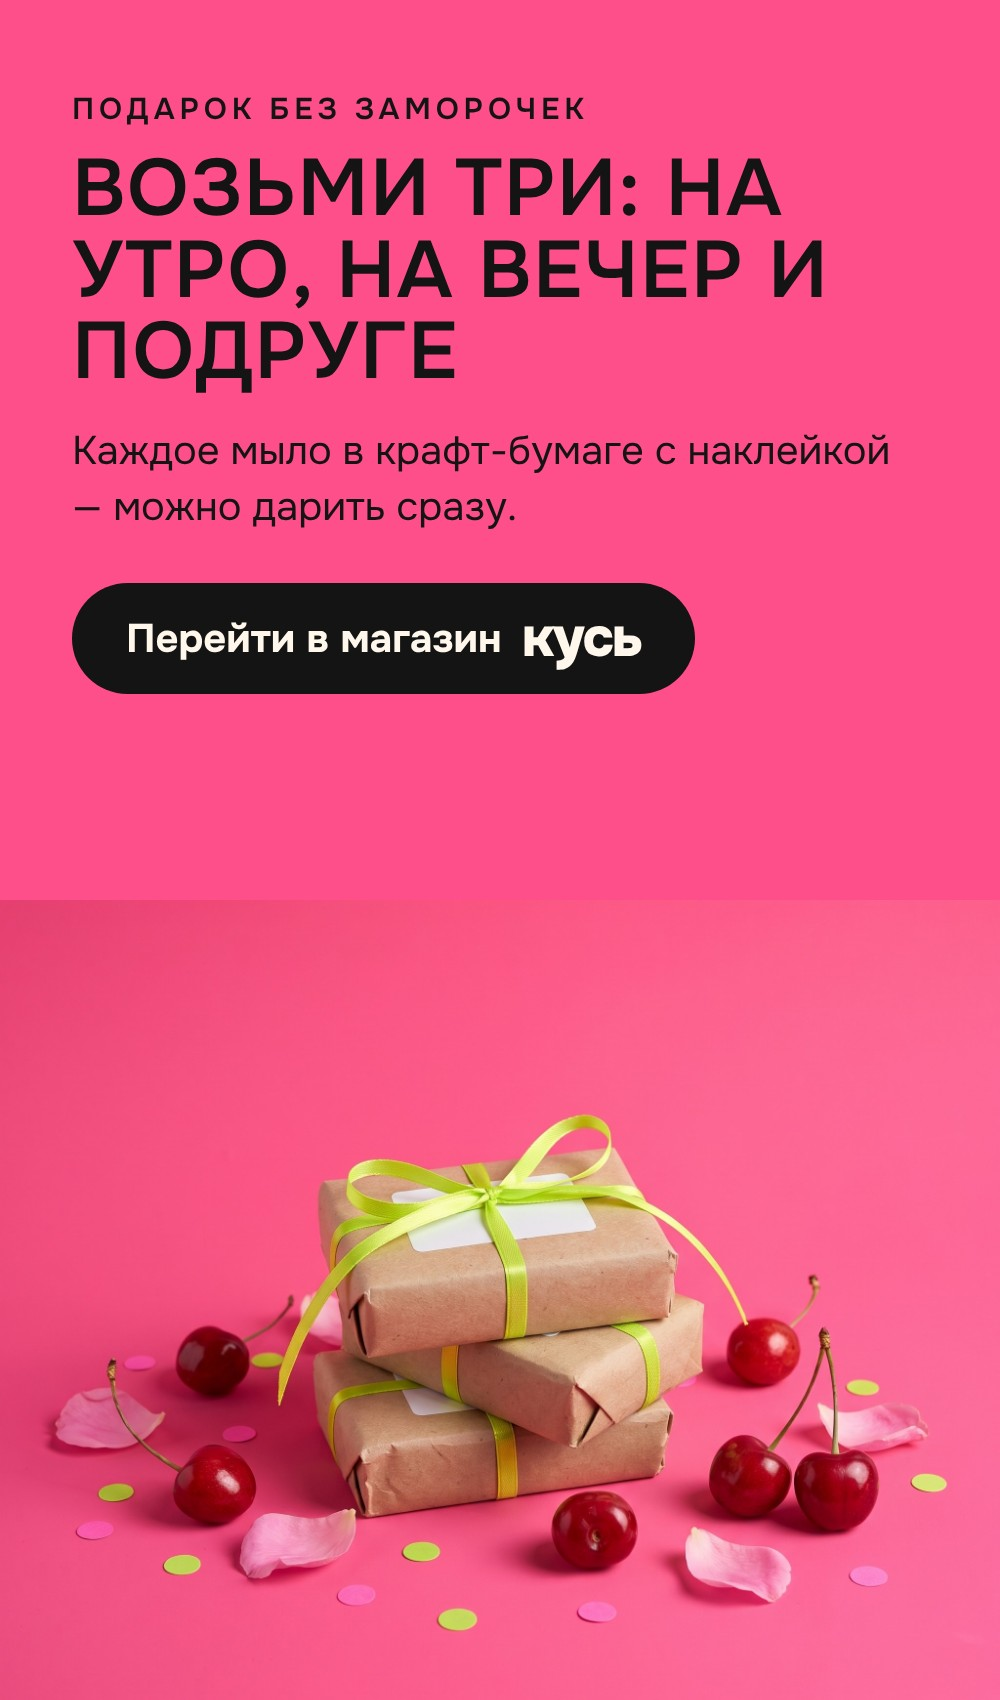
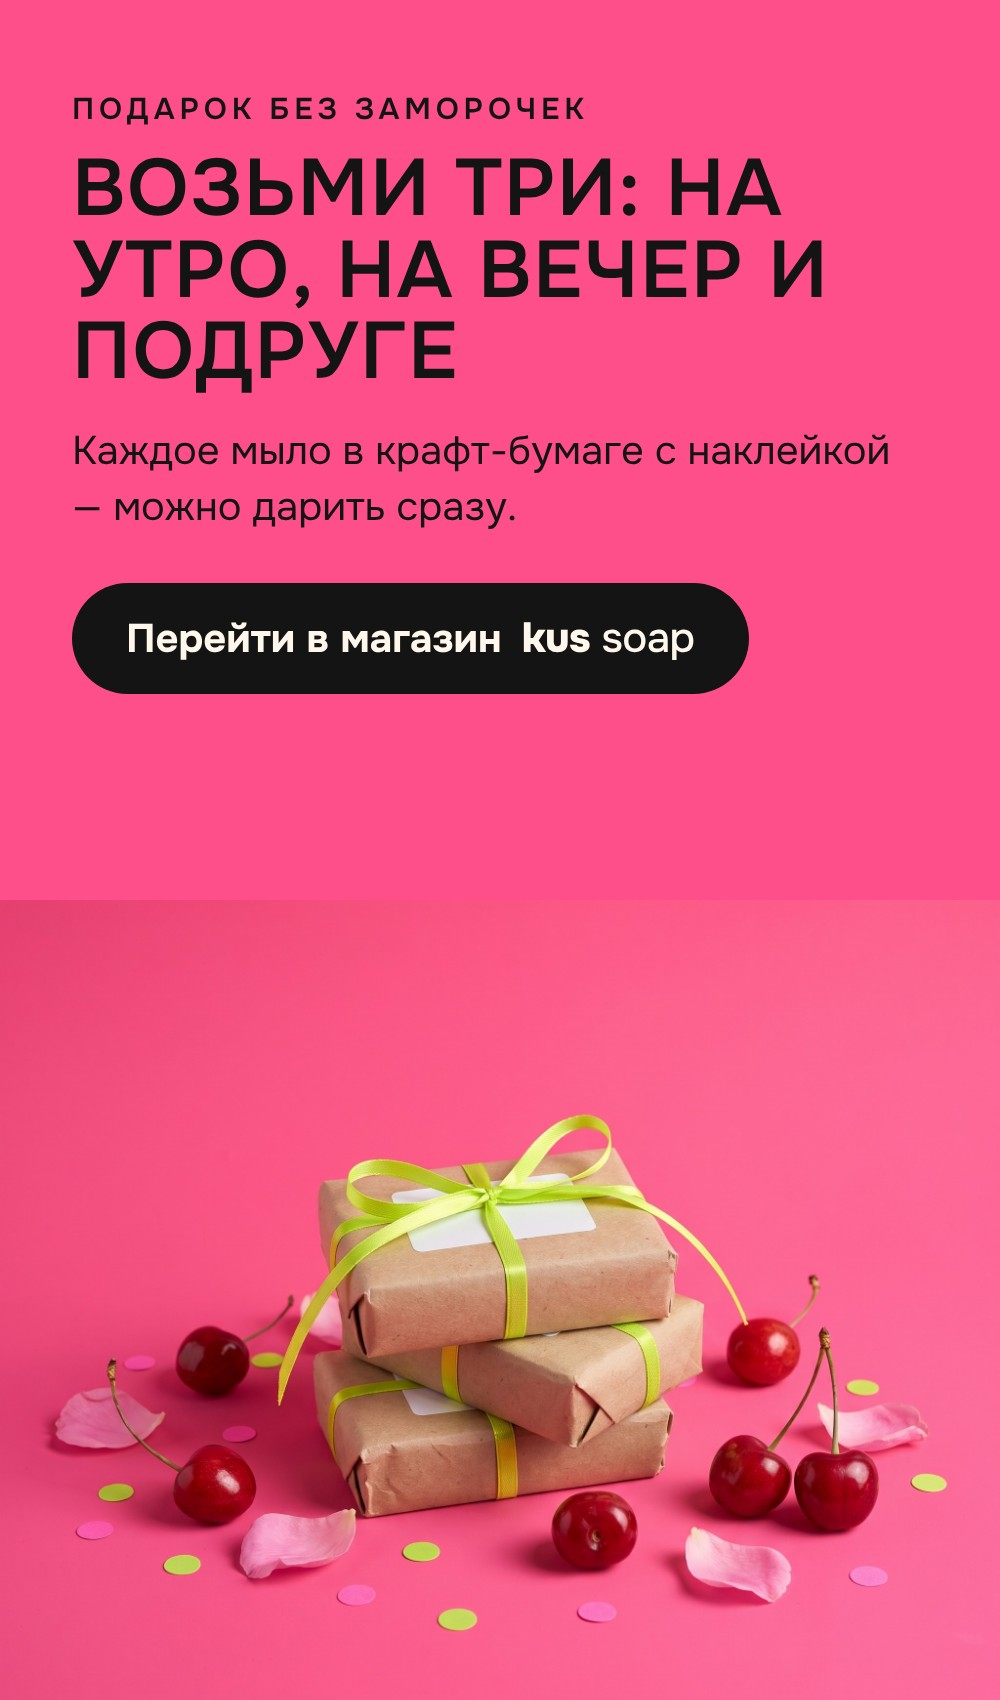
KUS SOAP: новый логотип и rich-контент с надписью KUS SOAP
Claude-Session: https://claude.ai/code/session_01So3fSjYAu8qgmN64VN8PHU

Changed region(s): [[0.527, 0.3429, 0.744, 0.4365]]

diff --git a/README.md b/README.md
@@ -1,8 +1,8 @@
-# kus-foto
+# kus-foto — KUS SOAP
 Картинки бренда «кусь» для Ozon и Wildberries.
 
 - `rich/` — rich-контент Ozon: 6 блоков для компьютера (`01-hero.jpg` … `06-podarok.jpg`, ширина 1416) и мобильные версии (`m-…`, ширина 1000).
 - `kartochki/` — карточки 100 ароматов (11 слайдов на аромат), выгрузка из Figma.
-- `logo/` — логотип: знак «мыло с укусом» (`kus-znak-*`) и словесный (`kus-logo-*`), PNG 1000 и 500 px.
+- `logo/` — логотип KUS SOAP: знак «мыло с укусом» (`kussoap-znak-*`) и словесный (`kussoap-logo-*`), PNG 1000, 500 и 200 px.
 
 Прямые ссылки: `https://raw.githubusercontent.com/chmain/kus-foto/main/<путь>`
